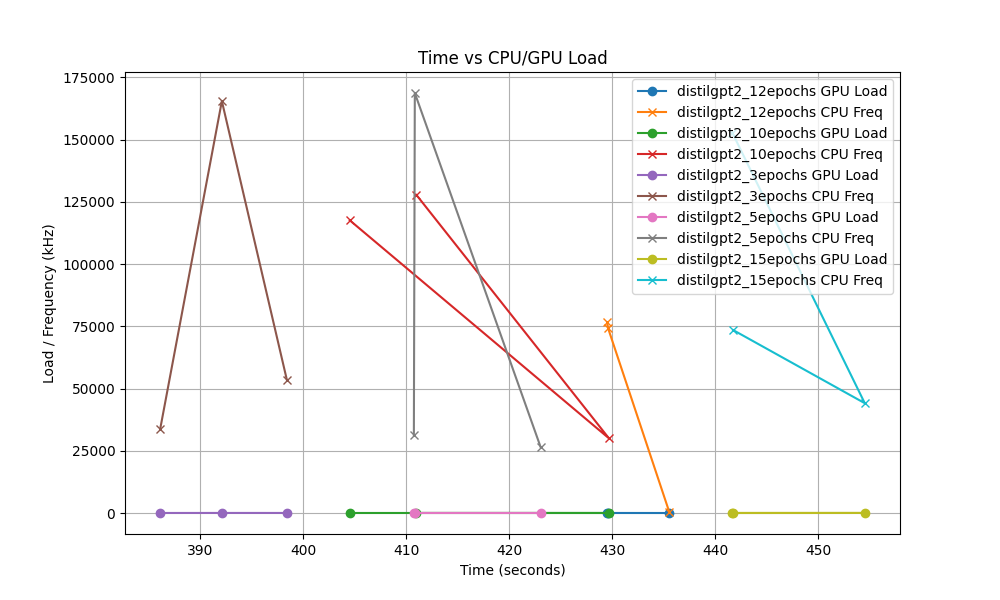
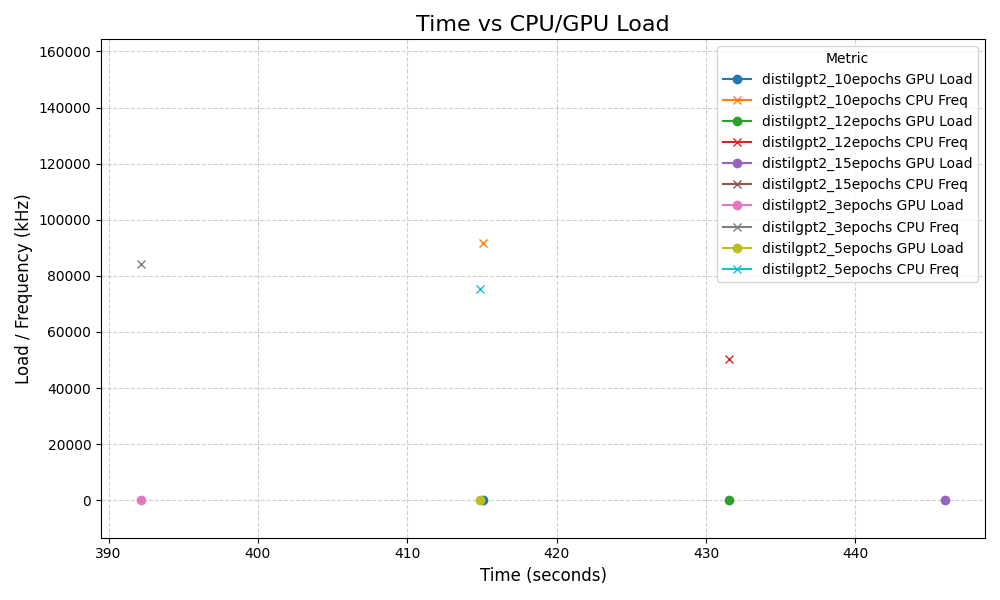
Plot update

diff --git a/NLP_NAS/plot_distilgpt2.py b/NLP_NAS/plot_distilgpt2.py
@@ -44,7 +44,6 @@ def load_data_for_all_models(model_names, base_dir):
 
     return pd.concat(all_data, ignore_index=True)
 
-# Define the function to normalize and plot all metrics in a single grouped bar plot
 def plot_normalized_grouped_bars(df, metrics, plot_filename):
     # Select the necessary columns (model and the metrics of interest)
     df_grouped = df[['model'] + metrics]
@@ -57,12 +56,14 @@ def plot_normalized_grouped_bars(df, metrics, plot_filename):
     df_melted = df_grouped.melt(id_vars='model', var_name='Metric', value_name='Normalized Value')
     
     plt.figure(figsize=(12, 6))
-    sns.barplot(x='model', y='Normalized Value', hue='Metric', data=df_melted, palette='Set2')
+    # Disable confidence intervals (ci=None) to remove black error bars
+    sns.barplot(x='model', y='Normalized Value', hue='Metric', data=df_melted, palette='Set2', errorbar=None)
     
-    plt.title('Normalized Comparison of Models Across Metrics')
-    plt.xlabel('Model')
-    plt.ylabel('Normalized Metric Value (0-1)')
+    plt.title('Normalized Comparison of Models Across Metrics', fontsize=16)
+    plt.xlabel('Model', fontsize=12)
+    plt.ylabel('Normalized Metric Value (0-1)', fontsize=12)
     plt.grid(True, axis='y', linestyle='--')
+    plt.tight_layout()
     
     # Save and show the plot
     plt.savefig(os.path.join(plot_dir, plot_filename))
@@ -180,39 +181,74 @@ def plot_parallel_coordinates(df, plot_filename):
 # Additional plotting functions (time-related)
 def plot_total_time(df, plot_filename):
     plt.figure(figsize=(10, 6))
-    sns.barplot(x='model', y='Time_delta', hue='model', data=df, palette=palette, dodge=False)
-    plt.title('Total Time Comparison Across Models')
-    plt.ylabel('Total Time (seconds)')
+    # Disable confidence intervals (ci=None) to remove black bars
+    sns.barplot(x='model', y='Time_delta', hue='model', data=df, palette=palette, dodge=False, errorbar=None)
+    plt.title('Total Time Comparison Across Models', fontsize=16)
+    plt.xlabel('Model', fontsize=12)
+    plt.ylabel('Total Time (seconds)', fontsize=12)
     plt.grid(True, axis='y', linestyle='--')
+    plt.tight_layout()
     plt.savefig(os.path.join(plot_dir, plot_filename))  # Save the plot
     plt.show()  # Show the plot
 
 def plot_time_vs_metric(df, metric, title, ylabel, plot_filename):
     plt.figure(figsize=(10, 6))
-    for model in df['model'].unique():
-        model_df = df[df['model'] == model]
+
+    # Group by 'model' and calculate mean
+    aggregated_df = df.groupby('model', as_index=False).mean()
+
+    # Plot aggregated metrics
+    for model in aggregated_df['model'].unique():
+        model_df = aggregated_df[aggregated_df['model'] == model]
         plt.plot(model_df['Time_delta'], model_df[metric], label=model, marker='o')
-    plt.title(title)
-    plt.xlabel('Time (seconds)')
-    plt.ylabel(ylabel)
-    plt.legend()
-    plt.grid(True)
-    plt.savefig(os.path.join(plot_dir, plot_filename))  # Save the plot
-    plt.show()  # Show the plot
+
+    plt.title(title, fontsize=16)
+    plt.xlabel('Time (seconds)', fontsize=12)
+    plt.ylabel(ylabel, fontsize=12)
+    plt.legend(title='Model', fontsize=10, loc='best')
+    plt.grid(True, linestyle='--', alpha=0.6)
+    plt.tight_layout()
+
+    # Save the plot
+    plt.savefig(os.path.join(plot_dir, plot_filename))
+    plt.show()
 
 def plot_time_vs_load(df, plot_filename):
+    # Aggregate the data by model, calculating mean for Time_delta, GPU_load_delta, and CPU_avg_freq_delta
+    aggregated_df = (
+        df.groupby('model', as_index=False)
+        .mean()
+        .loc[:, ['model', 'Time_delta', 'GPU_load_delta', 'CPU_avg_freq_delta']]
+    )
+
     plt.figure(figsize=(10, 6))
-    for model in df['model'].unique():
-        model_df = df[df['model'] == model]
-        plt.plot(model_df['Time_delta'], model_df['GPU_load_delta'], label=f'{model} GPU Load', marker='o')
-        plt.plot(model_df['Time_delta'], model_df['CPU_avg_freq_delta'], label=f'{model} CPU Freq', marker='x')
-    plt.title('Time vs CPU/GPU Load')
-    plt.xlabel('Time (seconds)')
-    plt.ylabel('Load / Frequency (kHz)')
-    plt.legend()
-    plt.grid(True)
-    plt.savefig(os.path.join(plot_dir, plot_filename))  # Save the plot
-    plt.show()  # Show the plot
+
+    # Plot GPU and CPU metrics for each model
+    for model in aggregated_df['model'].unique():
+        model_df = aggregated_df[aggregated_df['model'] == model]
+        plt.plot(
+            model_df['Time_delta'],
+            model_df['GPU_load_delta'],
+            label=f'{model} GPU Load',
+            marker='o',
+        )
+        plt.plot(
+            model_df['Time_delta'],
+            model_df['CPU_avg_freq_delta'],
+            label=f'{model} CPU Freq',
+            marker='x',
+        )
+
+    plt.title('Time vs CPU/GPU Load', fontsize=16)
+    plt.xlabel('Time (seconds)', fontsize=12)
+    plt.ylabel('Load / Frequency (kHz)', fontsize=12)
+    plt.legend(title='Metric', fontsize=10, loc='best')
+    plt.grid(True, linestyle='--', alpha=0.6)
+    plt.tight_layout()
+
+    # Save and show the plot
+    plt.savefig(os.path.join(plot_dir, plot_filename))
+    plt.show()
 
 # Main function to load data and plot comparisons, including time-related plots
 def compare_models_with_all_plots(model_names, base_dir):
